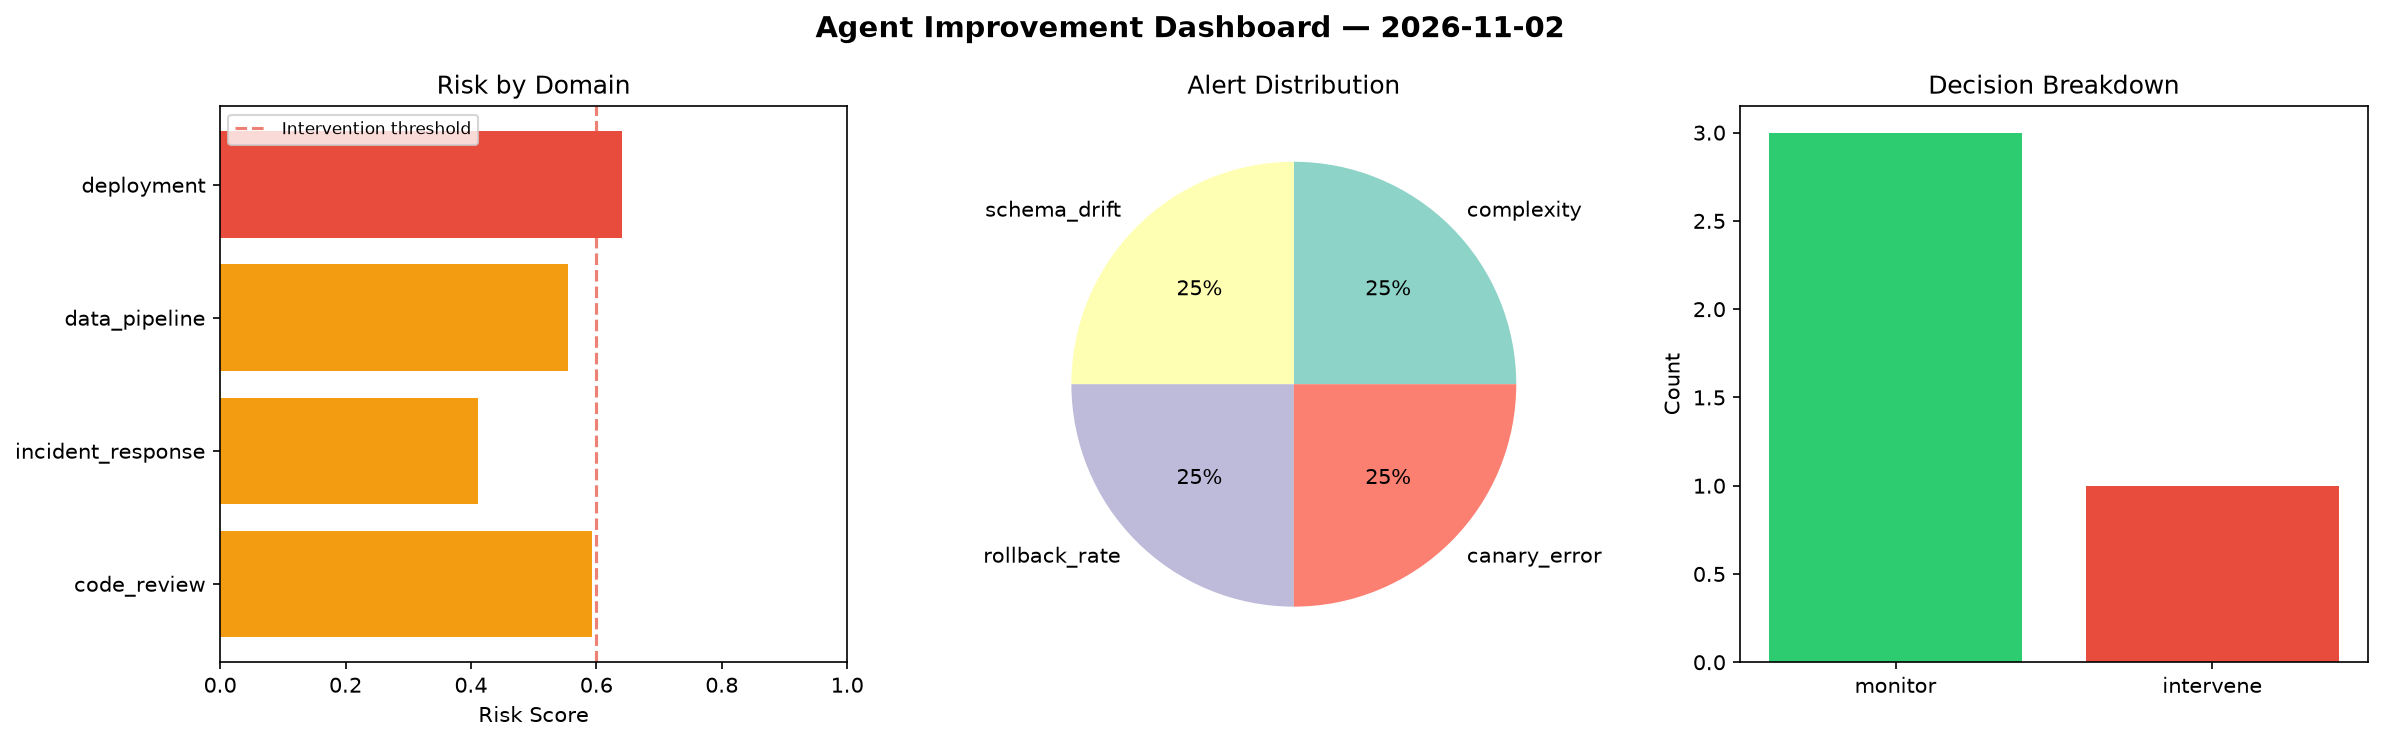
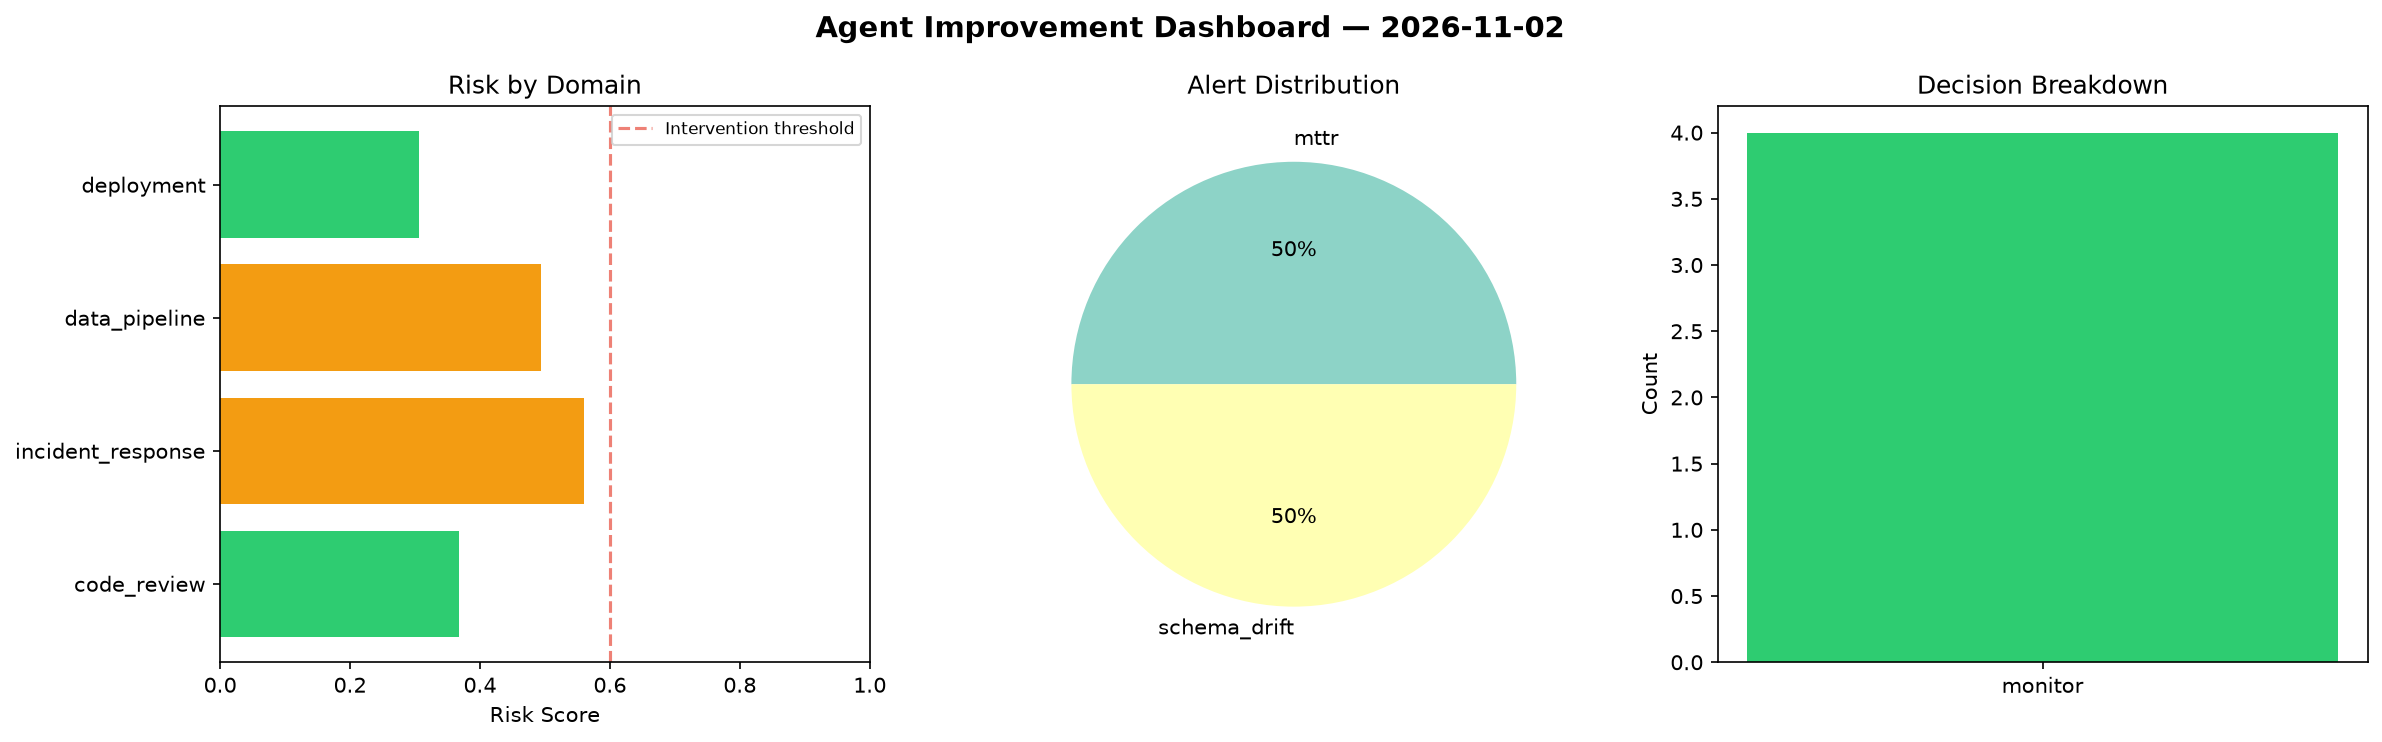
agent-improvement: daily cycle 2026-11-02T18:21

diff --git a/logs/2026-11-02.md b/logs/2026-11-02.md
@@ -1,6 +1,6 @@
 # Agent Improvement Report — 2026-11-02
 
-**Cycle ID:** `368077f0` | **Avg Risk:** 0.5502 | **Interventions:** 1/4
+**Cycle ID:** `cd9c1c19` | **Avg Risk:** 0.432 | **Interventions:** 0/4
 
 ![Dashboard](2026-11-02_dashboard.png)
 
@@ -10,18 +10,18 @@
 
 | Domain | Risk Score | Decision | Alerts |
 |--------|-----------|----------|--------|
-| code_review | 0.5932 | monitor | complexity |
-| incident_response | 0.4117 | monitor | none |
-| data_pipeline | 0.5546 | monitor | schema_drift |
-| deployment | 0.6415 | intervene | rollback_rate, canary_error |
+| code_review | 0.3683 | monitor | none |
+| incident_response | 0.5598 | monitor | mttr |
+| data_pipeline | 0.4934 | monitor | schema_drift |
+| deployment | 0.3064 | monitor | none |
 
 ## Delta vs Yesterday
 
 | Domain | Today | Yesterday | Change |
 |--------|-------|-----------|--------|
-| code_review | 0.5932 | 0.197 | 📈 201.1% |
-| incident_response | 0.4117 | 0.5268 | 📉 -21.8% |
-| data_pipeline | 0.5546 | 0.6058 | 📉 -8.5% |
-| deployment | 0.6415 | 0.7248 | 📉 -11.5% |
+| code_review | 0.3683 | 0.197 | 📈 87.0% |
+| incident_response | 0.5598 | 0.5268 | 📈 6.3% |
+| data_pipeline | 0.4934 | 0.6058 | 📉 -18.6% |
+| deployment | 0.3064 | 0.7248 | 📉 -57.7% |
 
-**Refinement:** `{'adjustment': 'tighten_thresholds', 'trend': 'degrading', 'window': 4}`
+**Refinement:** `{'adjustment': 'maintain', 'trend': 'improving', 'window': 4}`
